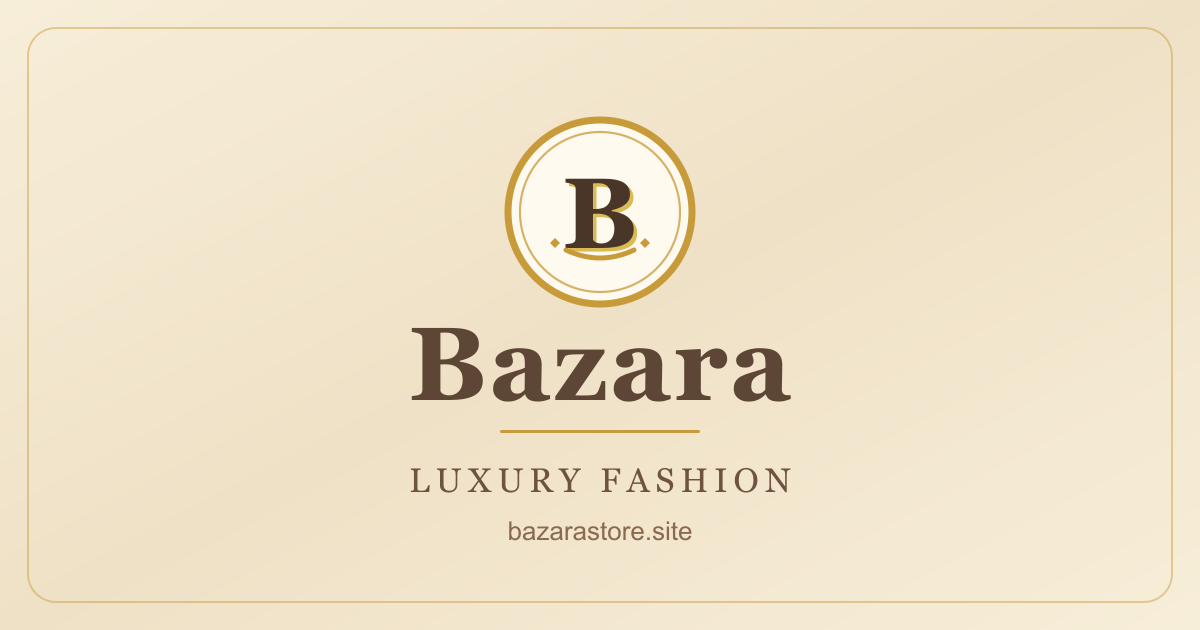
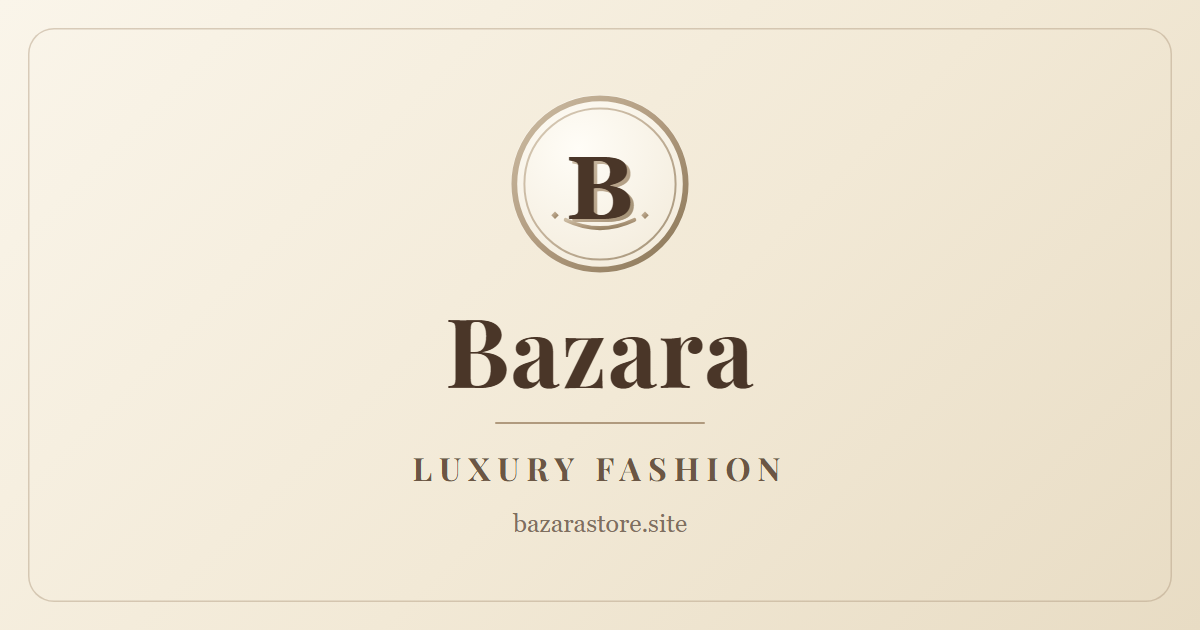
آخر الذهب: السحّابات والأيقونات وصورة المشاركة
المسح الأوّل أزال الذهب بقائمةٍ محفوظةٍ من الأكواد، فنجا كلّ ما كُتب بـrgba()
بقيمٍ خارجها. هذه المرّة بلا قائمة: كشفتُ اللون ذهبيّاً حسابياً، واستبدلتُه
بالدرجة الرمليّة صاحبة الإضاءة نفسها — فالتباين كما هو، وتختفي الصفرة وحدها.
٤٩ موضعاً بتسعة ملفات، أبرزها:

· سحّاب الصفحة كلّها — بالوضع الليليّ وبلوحة التاجرة، وسحّاب الدرج الجانبي.
  ذهبٌ صريح rgb(224,194,95) على كلّ شاشة، ولا يراه فحصُ الألوان لأنّ
  ::-webkit-scrollbar لا يُقرأ بـgetComputedStyle.
· الشريط السفليّ والدرج الجانبيّ ومحادثة المنسّقة وعارض القصص والشريط المعلن.
· وظلّا shadow-glow وshadow-gold بالتهيئة: rgba(212,175,55) — أي ذهبٌ معدنيّ
  كامل، يظهر خارج theme-pub أي بلوحة التاجرة.

وأيقونات التطبيق: تغييرُ favicon.svg لا يمسّ الـPNG — وهي التي تُرى على شاشة
الهاتف وبتبويب المتصفّح. أعدتُ رسم الستّ من نفس الـSVG المحدَّث.

وog-cover.png: أوّل ما يراه من يصله رابط الموقع بواتساب — كانت حلقةُ الشعار
والخطُّ الفاصل ذهبَين معدنيَّين وحدهما وسط لوحةٍ صارت رمليّةً كلّها. أعدتُ
رسمها بالخطّ نفسه والتكوين نفسه. (جرّبتُ تقليل حجمها بتقريب الألوان فوفّر ٥٪
فقط — لا يستحقّ خطر التشريط على تدرّج، فأبقيتُ الرسم النظيف.)

ما بقي ذهبياً عن قصد: ألوانُ القطع التي تختارها التاجرة (colorDot)، ولوحةُ
ألوان بانرها، والكهرمانيّ الذي يعني «انتبهي» لا «فخامة».

diff --git a/client/src/index.css b/client/src/index.css
@@ -130,7 +130,7 @@ table { max-width: 100%; }
 /* اسم المتجر الذهبي على السلايدر — تدرّج ذهبي دائم (غير متأثّر بالثيم) فوق الحجاب
    الداكن، مع بريق خفيف يمرّ عليه لإحساس فخم. */
 .bz-gold-name {
-  background: linear-gradient(100deg, #f3dd9e 0%, #c6b499 30%, #f7e7b0 50%, #b09a7e 72%, #c6b499 100%);
+  background: linear-gradient(100deg, #e8ddcc 0%, #c6b499 30%, #eee6d8 50%, #b09a7e 72%, #c6b499 100%);
   -webkit-background-clip: text; background-clip: text; color: transparent;
   background-size: 220% auto; filter: drop-shadow(0 2px 6px rgba(0,0,0,0.45));
 }
@@ -151,8 +151,8 @@ table { max-width: 100%; }
 }
 /* زوايا ذهبية مضيئة (L-shape) بأركان الشريحة الثابتة */
 .bz-hero-corner {
-  border-color: rgba(240, 212, 136, 0.85);
-  filter: drop-shadow(0 0 6px rgba(224, 194, 95, 0.55));
+  border-color: rgba(225, 213, 193, 0.85);
+  filter: drop-shadow(0 0 6px rgba(209, 194, 170, 0.55));
 }
 @media (prefers-reduced-motion: no-preference) {
   /* تكبير سينمائي بطيء (Ken Burns) للوسيط على الشريحة الظاهرة فقط */
@@ -413,12 +413,12 @@ input[type='datetime-local']::-webkit-datetime-edit {
 ::-webkit-scrollbar { width: 9px; height: 9px; }
 ::-webkit-scrollbar-track { background: transparent; }
 ::-webkit-scrollbar-thumb {
-  background: rgba(224, 194, 95, 0.34);
+  background: rgba(209, 194, 170, 0.34);
   border: 2px solid transparent;
   background-clip: content-box;
   border-radius: 999px;
 }
-::-webkit-scrollbar-thumb:hover { background: rgba(236, 217, 155, 0.6); background-clip: content-box; }
+::-webkit-scrollbar-thumb:hover { background: rgba(228, 216, 197, 0.6); background-clip: content-box; }
 
 /* قص النص لعدة أسطر */
 .line-clamp-1 { display: -webkit-box; -webkit-line-clamp: 1; -webkit-box-orient: vertical; overflow: hidden; }
@@ -611,8 +611,8 @@ html.dark .bz-select-opt.is-active {
 /* شريط التمرير خمري داخل الثيم العام */
 .theme-pub ::-webkit-scrollbar-thumb { background: rgba(94, 70, 54, 0.32); background-clip: content-box; }
 .theme-pub ::-webkit-scrollbar-thumb:hover { background: rgba(94, 70, 54, 0.55); background-clip: content-box; }
-html.dark .theme-pub ::-webkit-scrollbar-thumb { background: rgba(224, 194, 95, 0.34); background-clip: content-box; }
-html.dark .theme-pub ::-webkit-scrollbar-thumb:hover { background: rgba(236, 217, 155, 0.6); background-clip: content-box; }
+html.dark .theme-pub ::-webkit-scrollbar-thumb { background: rgba(209, 194, 170, 0.34); background-clip: content-box; }
+html.dark .theme-pub ::-webkit-scrollbar-thumb:hover { background: rgba(228, 216, 197, 0.6); background-clip: content-box; }
 
 /* ===== الشريط العلوي الخمري (Navbar) ===== */
 .pub-navbar {
@@ -655,7 +655,7 @@ html.dark .theme-pub .app-navbar {
   box-shadow: 0 8px 22px -10px rgba(0, 0, 0, 0.8);
 }
 html.dark .theme-pub .app-navbar::after {
-  background: linear-gradient(90deg, transparent, rgba(240, 212, 136, 0.55), transparent);
+  background: linear-gradient(90deg, transparent, rgba(225, 213, 193, 0.55), transparent);
 }
 /* عناصر داخل الهيدر ليلاً: القاعدة العامة تجعل bg-white بلون #241b12 وهو لون
    الهيدر نفسه تقريباً، فيذوب حقل البحث وأزرار السلّة/المفضّلة فيه ولا يُرى
@@ -755,7 +755,7 @@ html.dark .bz-sheet .bz-sheet-ghost:hover { background: rgba(205, 189, 164, 0.1)
    ذهبيّ خالص بتوهّجٍ خفيف — يلفت النظر كما تفعل حلقة إنستغرام. */
 .bz-story-ring {
   background: conic-gradient(from 140deg,
-    #8a7657, #f7e7b0 18%, #b09a7e 38%, #fff6da 55%, #c6b499 72%, #8a7657 88%, #f3dd9e);
+    #8a7657, #eee6d8 18%, #b09a7e 38%, #fff6da 55%, #c6b499 72%, #8a7657 88%, #e8ddcc);
   box-shadow: 0 0 0 1px rgba(138, 118, 87, 0.25), 0 4px 14px -3px rgba(176, 154, 126, 0.65);
 }
 /* المُشاهَدة: خيطٌ رفيع هادئ بدل حلقةٍ سميكة باهتة */
@@ -777,7 +777,7 @@ html.dark .bz-story-gap { background: #1c1610; }
    نُبقي لوناً صلباً fallback أولاً كي لا يختفي النص لو لم يُدعم background-clip. */
 .ann-text {
   color: #f3e6c2;
-  background: linear-gradient(100deg, #e9cf87 0%, #fff6da 22%, #b09a7e 45%, #fff2cf 66%, #cdbda4 100%);
+  background: linear-gradient(100deg, #dccfba 0%, #fff6da 22%, #b09a7e 45%, #fff2cf 66%, #cdbda4 100%);
   background-size: 220% auto;
   -webkit-background-clip: text; background-clip: text;
   -webkit-text-fill-color: transparent;
@@ -994,10 +994,10 @@ html.dark .theme-pub .text-gold-300,
 html.dark .theme-pub .text-gold-400 { color: #e4d8c5; }
 @media (hover: hover) {
   html.dark .theme-pub .hover\:text-gold-100:hover,
-  html.dark .theme-pub .hover\:text-gold-200:hover { color: #ffe9b8; }
+  html.dark .theme-pub .hover\:text-gold-200:hover { color: #f1eade; }
 }
 html.dark .theme-pub .gradient-text {
-  background: linear-gradient(135deg, #fdf3d3 0%, #ecd28a 40%, #b09a7e 100%);
+  background: linear-gradient(135deg, #fdf3d3 0%, #dfd2be 40%, #b09a7e 100%);
   -webkit-background-clip: text;
   background-clip: text;
   color: transparent;
@@ -1029,11 +1029,11 @@ html.dark .theme-pub .btn-ghost {
 @media (hover: hover) { html.dark .theme-pub .btn-ghost:hover { background: rgba(205, 189, 164, 0.12); border-color: #cdbda4; } }
 /* الزر الأساسي ليلياً: ذهبي مشعّ بنص داكن — أفخم وأوضح من البنّي المطفي */
 html.dark .theme-pub .btn-primary {
-  background: linear-gradient(135deg, #ecd28a 0%, #b09a7e 55%, #8a7657 100%);
+  background: linear-gradient(135deg, #dfd2be 0%, #b09a7e 55%, #8a7657 100%);
   color: #1e1710;
   box-shadow: 0 12px 28px -12px rgba(176, 154, 126, 0.45);
 }
-@media (hover: hover) { html.dark .theme-pub .btn-primary:hover { background: linear-gradient(135deg, #f4e0a4 0%, #cdbda4 55%, #b09a7e 100%); } }
+@media (hover: hover) { html.dark .theme-pub .btn-primary:hover { background: linear-gradient(135deg, #eae0cf 0%, #cdbda4 55%, #b09a7e 100%); } }
 
 /* الحدود البنّية → ذهبية خفيفة */
 html.dark .theme-pub .border-wine\/15,
@@ -1143,7 +1143,7 @@ html.dark .theme-pub .text-wine\/45 { color: rgba(236, 227, 214, 0.62); }
 html.dark .theme-pub .text-wine\/40 { color: rgba(236, 227, 214, 0.55); }
 html.dark .theme-pub .text-wine\/35 { color: rgba(236, 227, 214, 0.50); }
 html.dark .theme-pub .text-wine\/30 { color: rgba(236, 227, 214, 0.45); }
-@media (hover: hover) { html.dark .theme-pub .hover\:text-wine:hover { color: #f0d896; } }
+@media (hover: hover) { html.dark .theme-pub .hover\:text-wine:hover { color: #e4d8c5; } }
 
 /* رسائل التأكيد الخضراء الفاتحة كانت تختفي على الخلفية الكريمية الفاتحة →
    نجعلها خضراء واضحة في الوضع النهاري، وفاتحة في الوضع الليلي. */
@@ -1367,12 +1367,12 @@ a, button, [role='button'], summary {
 @media (pointer: fine) {
   .dash-menu-scroll {
     scrollbar-width: thin;
-    scrollbar-color: rgba(224, 194, 95, 0.6) transparent;
+    scrollbar-color: rgba(209, 194, 170, 0.6) transparent;
   }
   .dash-menu-scroll::-webkit-scrollbar { width: 7px; }
   .dash-menu-scroll::-webkit-scrollbar-track { background: rgba(244, 237, 226, 0.06); border-radius: 99px; }
   .dash-menu-scroll::-webkit-scrollbar-thumb {
-    background: linear-gradient(180deg, rgba(236, 217, 155, 0.75), rgba(176, 154, 126, 0.65));
+    background: linear-gradient(180deg, rgba(228, 216, 197, 0.75), rgba(176, 154, 126, 0.65));
     border-radius: 99px;
   }
   .dash-menu-scroll::-webkit-scrollbar-thumb:hover { background: linear-gradient(180deg, #e4d8c5, #b09a7e); }
@@ -1385,7 +1385,7 @@ a, button, [role='button'], summary {
 @media (pointer: fine) {
   /* فايرفوكس: اللون يُورَّث لكل حاويات التمرير */
   html { scrollbar-width: thin; scrollbar-color: rgba(94, 70, 54, 0.38) transparent; }
-  html.dark { scrollbar-color: rgba(224, 194, 95, 0.45) transparent; }
+  html.dark { scrollbar-color: rgba(209, 194, 170, 0.45) transparent; }
 }
 
 /* الأزرار لا يُحدَّد نصّها (لا معنى لتحديد كلمة «حفظ») — والروابط تبقى قابلة
@@ -1423,7 +1423,7 @@ img, svg { -webkit-user-drag: none; }
 /* وجود غير مقروء يستحقّ فرقاً يُرى بلمحة، لا رقماً صغيراً وحده */
 .bz-bell-on {
   background: linear-gradient(140deg, rgba(205, 189, 164, 0.32), rgba(205, 189, 164, 0.12));
-  color: #f6e6b6;
+  color: #eee5d7;
   box-shadow: inset 0 0 0 1px rgba(205, 189, 164, 0.60), 0 0 18px -6px rgba(205, 189, 164, 0.55);
 }
 
@@ -1506,7 +1506,7 @@ html.dark .bz-notif-head {
   background: linear-gradient(180deg, rgba(205, 189, 164, 0.09), transparent);
 }
 .bz-notif-headico {
-  background: linear-gradient(140deg, #cdbda4, #c9a94f);
+  background: linear-gradient(140deg, #cdbda4, #bca88e);
   color: #3a2a1c;
   box-shadow: 0 4px 12px -4px rgba(150, 128, 95, 0.7);
 }
@@ -1564,7 +1564,7 @@ html.dark .bz-seg-btn { color: rgba(203, 187, 156, 0.72); }
 }
 html.dark .bz-seg-on {
   background: rgba(205, 189, 164, 0.20);
-  color: #f6e6b6;
+  color: #eee5d7;
   box-shadow: inset 0 0 0 1px rgba(205, 189, 164, 0.30);
 }
 .bz-seg-count {
@@ -1618,7 +1618,7 @@ html.dark .bz-notif-unread { background: rgba(205, 189, 164, 0.07); }
   inset-block: 0;
   inset-inline-start: 0;
   width: 3px;
-  background: linear-gradient(180deg, #cdbda4, #c9a94f);
+  background: linear-gradient(180deg, #cdbda4, #bca88e);
 }
 /* ليلاً الذهب الصريح يصرخ على الخلفية الداكنة — نخفّه قليلاً */
 html.dark .bz-notif-unread::before { background: linear-gradient(180deg, rgba(205, 189, 164, 0.75), rgba(150, 128, 95, 0.55)); }
@@ -1640,7 +1640,7 @@ html.dark .bz-notif-ico { box-shadow: inset 0 0 0 1px rgba(255, 255, 255, 0.07);
 .bz-tone-pink   { background: rgba(219, 39, 119, 0.12);  color: #be185d; }
 .bz-tone-violet { background: rgba(124, 58, 237, 0.12);  color: #6d28d9; }
 
-html.dark .bz-tone-gold   { background: rgba(205, 189, 164, 0.16); color: #ecd08a; }
+html.dark .bz-tone-gold   { background: rgba(205, 189, 164, 0.16); color: #ded1bc; }
 html.dark .bz-tone-amber  { background: rgba(251, 191, 36, 0.14);  color: #fcd34d; }
 html.dark .bz-tone-red    { background: rgba(248, 113, 113, 0.14); color: #fca5a5; }
 html.dark .bz-tone-teal   { background: rgba(45, 212, 191, 0.14);  color: #5eead4; }

diff --git a/client/src/pages/dashboard/StoreSettings.jsx b/client/src/pages/dashboard/StoreSettings.jsx
@@ -125,10 +125,10 @@ const waValid = (v) => {
 function AnnouncementPreview({ items }) {
   const list = items.length ? items : [''];
   return (
-    <div dir="ltr" className="group relative overflow-hidden rounded-xl border-y border-gold-400/60 bg-gradient-to-r from-[#1f130d] via-[#3f2a19] to-[#1f130d] py-2 shadow-[inset_0_1px_0_rgba(224,194,95,.22),inset_0_-1px_0_rgba(0,0,0,.4)]">
-      <span className="pointer-events-none absolute inset-x-0 top-0 z-10 h-px bg-gradient-to-r from-transparent via-[#f0d488]/70 to-transparent" />
-      <span className="pointer-events-none absolute inset-x-0 bottom-0 z-10 h-px bg-gradient-to-r from-transparent via-[#f0d488]/45 to-transparent" />
-      <span className="pointer-events-none absolute inset-0 z-0 bg-[radial-gradient(80%_140%_at_50%_50%,rgba(224,194,95,.14),transparent_70%)]" />
+    <div dir="ltr" className="group relative overflow-hidden rounded-xl border-y border-gold-400/60 bg-gradient-to-r from-[#1f130d] via-[#3f2a19] to-[#1f130d] py-2 shadow-[inset_0_1px_0_rgba(209, 194, 170,.22),inset_0_-1px_0_rgba(0,0,0,.4)]">
+      <span className="pointer-events-none absolute inset-x-0 top-0 z-10 h-px bg-gradient-to-r from-transparent via-[#e1d5c1]/70 to-transparent" />
+      <span className="pointer-events-none absolute inset-x-0 bottom-0 z-10 h-px bg-gradient-to-r from-transparent via-[#e1d5c1]/45 to-transparent" />
+      <span className="pointer-events-none absolute inset-0 z-0 bg-[radial-gradient(80%_140%_at_50%_50%,rgba(209, 194, 170,.14),transparent_70%)]" />
       <span className="animate-ann-shine pointer-events-none absolute inset-y-0 z-20 w-1/3 bg-[linear-gradient(105deg,transparent,rgba(255,244,210,.34)_50%,transparent)]" />
       {/* أبطأ من الشريط الحقيقي عمداً: المعاينة صغيرة والتاجرة تقرأ نصّها للتدقيق */}
       <div className="relative z-[5] flex w-max animate-marquee" style={{ animationDuration: `${Math.min(160, Math.max(34, list.join('  ').length * 0.95))}s` }}>
@@ -136,7 +136,7 @@ function AnnouncementPreview({ items }) {
           <div key={g} className="flex shrink-0 items-center" aria-hidden={g === 1}>
             {Array.from({ length: Math.max(6, list.length * 3) }).map((_, k) => (
               <span key={k} className="ann-text flex items-center gap-2 whitespace-nowrap px-5 text-[12px] font-extrabold" dir="auto">
-                <svg viewBox="0 0 24 24" className="h-3 w-3 shrink-0 text-[#f4dc93] drop-shadow-[0_0_5px_rgba(224,194,95,.75)]" style={{ WebkitTextFillColor: 'initial' }} fill="currentColor">
+                <svg viewBox="0 0 24 24" className="h-3 w-3 shrink-0 text-[#e7dcca] drop-shadow-[0_0_5px_rgba(209, 194, 170,.75)]" style={{ WebkitTextFillColor: 'initial' }} fill="currentColor">
                   <path d="M12 2c.5 3.8 2.2 5.5 6 6-3.8.5-5.5 2.2-6 6-.5-3.8-2.2-5.5-6-6 3.8-.5 5.5-2.2 6-6Z" />
                 </svg>
                 {list[k % list.length]}

diff --git a/client/src/components/AnnouncementBar.jsx b/client/src/components/AnnouncementBar.jsx
@@ -23,7 +23,7 @@ export default function AnnouncementBar({ ar, en }) {
     <div className="flex shrink-0 items-center" aria-hidden={hidden}>
       {Array.from({ length: groupCount }).map((_, k) => (
         <span key={k} className="ann-text flex items-center gap-2.5 whitespace-nowrap px-6 text-[13px] font-extrabold tracking-wide" dir="auto">
-          <SparkleIcon className="h-3.5 w-3.5 shrink-0 text-[#f4dc93] drop-shadow-[0_0_5px_rgba(224,194,95,.75)]" />
+          <SparkleIcon className="h-3.5 w-3.5 shrink-0 text-[#e7dcca] drop-shadow-[0_0_5px_rgba(209, 194, 170,.75)]" />
           {items[k % items.length]}
         </span>
       ))}
@@ -31,12 +31,12 @@ export default function AnnouncementBar({ ar, en }) {
   );
 
   return (
-    <div dir="ltr" className="group relative -mx-4 mb-5 overflow-hidden border-y border-gold-400/60 bg-gradient-to-r from-[#1f130d] via-[#3f2a19] to-[#1f130d] py-2 shadow-[0_3px_14px_rgba(0,0,0,.4),inset_0_1px_0_rgba(224,194,95,.22),inset_0_-1px_0_rgba(0,0,0,.4)] sm:-mx-6">
+    <div dir="ltr" className="group relative -mx-4 mb-5 overflow-hidden border-y border-gold-400/60 bg-gradient-to-r from-[#1f130d] via-[#3f2a19] to-[#1f130d] py-2 shadow-[0_3px_14px_rgba(0,0,0,.4),inset_0_1px_0_rgba(209, 194, 170,.22),inset_0_-1px_0_rgba(0,0,0,.4)] sm:-mx-6">
       {/* خطّ ذهبي رفيع علوي وسفلي — يعطي حدّاً مزدوجاً فاخراً */}
-      <span className="pointer-events-none absolute inset-x-0 top-0 z-10 h-px bg-gradient-to-r from-transparent via-[#f0d488]/70 to-transparent" />
-      <span className="pointer-events-none absolute inset-x-0 bottom-0 z-10 h-px bg-gradient-to-r from-transparent via-[#f0d488]/45 to-transparent" />
+      <span className="pointer-events-none absolute inset-x-0 top-0 z-10 h-px bg-gradient-to-r from-transparent via-[#e1d5c1]/70 to-transparent" />
+      <span className="pointer-events-none absolute inset-x-0 bottom-0 z-10 h-px bg-gradient-to-r from-transparent via-[#e1d5c1]/45 to-transparent" />
       {/* توهّج دافئ خفيف بمنتصف الشريط خلف النص */}
-      <span className="pointer-events-none absolute inset-0 z-0 bg-[radial-gradient(80%_140%_at_50%_50%,rgba(224,194,95,.14),transparent_70%)]" />
+      <span className="pointer-events-none absolute inset-0 z-0 bg-[radial-gradient(80%_140%_at_50%_50%,rgba(209, 194, 170,.14),transparent_70%)]" />
       {/* لمعة ذهبية تمسح الشريط تلقائياً — تعطيه إحساس المعدن الفاخر */}
       <span className="animate-ann-shine pointer-events-none absolute inset-y-0 z-20 w-1/3 bg-[linear-gradient(105deg,transparent,rgba(255,244,210,.34)_50%,transparent)]" />
       <div

diff --git a/client/src/pages/Home.jsx b/client/src/pages/Home.jsx
@@ -542,7 +542,7 @@ function HomeHero({ banners = [] }) {
                       </>
                     )}
                     {/* شارة ذهبية رفيعة تعطي إحساس دور الأزياء العالمية */}
-                    <span className={`bz-hero-el bz-kicker mb-4 text-[11px] font-semibold uppercase sm:text-xs ${onMedia ? 'text-gold-200/90' : 'text-[#a9812f]'}`}>Bazara</span>
+                    <span className={`bz-hero-el bz-kicker mb-4 text-[11px] font-semibold uppercase sm:text-xs ${onMedia ? 'text-gold-200/90' : 'text-[#9a8463]'}`}>Bazara</span>
                     {s.title && <h1 className={`bz-hero-el font-display text-3xl font-extrabold leading-tight sm:text-5xl ${onMedia ? 'text-cream drop-shadow-lg' : 'text-[#5e4636]'}`}>{s.title}</h1>}
                     {s.subtitle && <p className={`bz-hero-el mx-auto mt-4 max-w-2xl sm:text-lg ${onMedia ? 'text-cream/85 drop-shadow' : 'text-[#6e5340]'}`}>{s.subtitle}</p>}
                     {s.btnLabel && s.btnHref && <div className="bz-hero-el"><SlideButton href={s.btnHref} label={s.btnLabel} onLight={!onMedia} /></div>}
@@ -555,7 +555,7 @@ function HomeHero({ banners = [] }) {
               <div key={idx} className="w-full shrink-0" dir="rtl">
                 <div className={`relative flex h-[340px] flex-col items-center justify-center overflow-hidden bg-gradient-to-br from-[#f6ecd9] via-[#efe1c6] to-[#f6ecd9] px-6 text-center sm:h-[420px] lg:h-[500px] 2xl:h-[580px] ${idx === i ? 'bz-hero-active' : ''}`}>
                   <div className="pointer-events-none absolute -top-12 start-1/4 h-44 w-44 animate-float rounded-full bg-wine/5 blur-3xl" />
-                  <p className="bz-hero-el bz-kicker mb-4 text-[11px] font-semibold uppercase text-[#a9812f] sm:text-xs">{s.eyebrow}</p>
+                  <p className="bz-hero-el bz-kicker mb-4 text-[11px] font-semibold uppercase text-[#9a8463] sm:text-xs">{s.eyebrow}</p>
                   <h1 className="bz-hero-el font-display text-3xl font-extrabold leading-tight text-[#5e4636] sm:text-5xl">
                     {s.title}
                     {s.highlight && <> <span className="underline decoration-[#9c866a] decoration-2 underline-offset-8">{s.highlight}</span></>}

diff --git a/client/src/components/StoryViewer.jsx b/client/src/components/StoryViewer.jsx
@@ -176,7 +176,7 @@ export default function StoryViewer({ stories, store, startIndex = 0, isOwner = 
           {stories.map((s, i) => (
             <div key={s.id} className="h-[3px] flex-1 overflow-hidden rounded-full bg-white/30 shadow-[0_1px_2px_rgba(0,0,0,.35)]">
               <div
-                className="h-full rounded-full bg-gradient-to-r from-[#b09a7e] via-[#f7e7b0] to-[#fff6da] shadow-[0_0_6px_rgba(205, 189, 164, .8)]"
+                className="h-full rounded-full bg-gradient-to-r from-[#b09a7e] via-[#eee6d8] to-[#fff6da] shadow-[0_0_6px_rgba(205, 189, 164, .8)]"
                 style={{ width: `${i < idx ? 100 : i === idx ? progress : 0}%` }}
               />
             </div>
@@ -227,7 +227,7 @@ export default function StoryViewer({ stories, store, startIndex = 0, isOwner = 
           )}
           {cur.productId && (
             <Link to={`/product/${cur.productId}`} onClick={onClose}
-              className="flex w-full items-center justify-center gap-2 rounded-full bg-gradient-to-r from-[#f7e7b0] via-[#cdbda4] to-[#b09a7e] py-3 text-sm font-extrabold text-[#2a1c14] shadow-[0_8px_24px_-6px_rgba(176, 154, 126, .8)] transition active:scale-[0.98]">
+              className="flex w-full items-center justify-center gap-2 rounded-full bg-gradient-to-r from-[#eee6d8] via-[#cdbda4] to-[#b09a7e] py-3 text-sm font-extrabold text-[#2a1c14] shadow-[0_8px_24px_-6px_rgba(176, 154, 126, .8)] transition active:scale-[0.98]">
               <BagIcon className="h-5 w-5" /> {t('story.shopNow')}
             </Link>
           )}

diff --git a/client/src/components/BottomNav.jsx b/client/src/components/BottomNav.jsx
@@ -237,7 +237,7 @@ export default function BottomNav() {
                 // شارة فاخرة: هالة نابضة خلفها لجذب الانتباه + حبّة ذهبية متدرّجة بحدّ عاجي
                 <span className="absolute -end-1 -top-1.5 flex h-[18px] min-w-[18px] items-center justify-center">
                   <span className="absolute inline-flex h-full w-full animate-ping rounded-full bg-gold-400/60" style={{ animationDuration: '1.8s' }} />
-                  <span className="relative flex h-[18px] min-w-[18px] items-center justify-center rounded-full px-1 text-[10px] font-extrabold leading-none text-wine-dark shadow-md ring-[1.5px] ring-cream" style={{ background: 'linear-gradient(135deg, #f4e0a4 0%, #cdbda4 55%, #b09a7e 100%)' }}>
+                  <span className="relative flex h-[18px] min-w-[18px] items-center justify-center rounded-full px-1 text-[10px] font-extrabold leading-none text-wine-dark shadow-md ring-[1.5px] ring-cream" style={{ background: 'linear-gradient(135deg, #eae0cf 0%, #cdbda4 55%, #b09a7e 100%)' }}>
                     {badge > 99 ? '99+' : badge}
                   </span>
                 </span>

diff --git a/client/src/components/StylistChat.jsx b/client/src/components/StylistChat.jsx
@@ -136,10 +136,10 @@ export default function StylistChat({ store, whatsapp = '', marketplace = false 
         className="group fixed start-5 z-40 flex h-14 w-14 items-center justify-center rounded-full ring-1 ring-white/30 transition-transform duration-300 hover:scale-110 active:scale-95"
         style={{
           bottom: 'calc(env(safe-area-inset-bottom, 0px) + 96px)',
-          background: dark ? 'linear-gradient(150deg,#d4bd80,#a8863f)' : 'linear-gradient(150deg,#f9ecc4,#e3b94f)',
+          background: dark ? 'linear-gradient(150deg,#cdbda4,#9d8767)' : 'linear-gradient(150deg,#f9ecc4,#ccbca3)',
           boxShadow: dark
-            ? '0 10px 24px -10px rgba(168,134,63,0.55), 0 2px 6px -2px rgba(0,0,0,0.3)'
-            : '0 12px 28px -10px rgba(201,162,77,0.6), 0 2px 6px -2px rgba(0,0,0,0.15)',
+            ? '0 10px 24px -10px rgba(157, 135, 103,0.55), 0 2px 6px -2px rgba(0,0,0,0.3)'
+            : '0 12px 28px -10px rgba(184, 164, 136,0.6), 0 2px 6px -2px rgba(0,0,0,0.15)',
           color: '#3f2e22',
         }}
       >

diff --git a/client/src/components/DashDrawerNav.jsx b/client/src/components/DashDrawerNav.jsx
@@ -123,7 +123,7 @@ export default function DashDrawerNav({ groups, activeKey, onNavigate, badges = 
                         className={`relative flex h-6 min-w-6 items-center justify-center rounded-full px-1.5 text-xs font-extrabold shadow-sm ring-1 ring-cream/50 ${
                           s.badgeTone === 'green' ? 'bg-emerald-500 text-white' : 'text-wine-dark'
                         }`}
-                        style={s.badgeTone === 'green' ? undefined : { background: 'linear-gradient(135deg, #f4e0a4 0%, #cdbda4 55%, #b09a7e 100%)' }}
+                        style={s.badgeTone === 'green' ? undefined : { background: 'linear-gradient(135deg, #eae0cf 0%, #cdbda4 55%, #b09a7e 100%)' }}
                       >
                         {badge > 99 ? '99+' : badge}
                       </span>

diff --git a/client/src/pages/dashboard/OrdersManager.jsx b/client/src/pages/dashboard/OrdersManager.jsx
@@ -268,7 +268,7 @@ export default function OrdersManager() {
     body{font-family:'Cairo','Segoe UI',Tahoma,sans-serif;color:#2b2b2b;margin:0;padding:0;background:#fff}
     .inv{padding:22px 24px;max-width:800px;margin:0 auto}
     .inv + .inv{page-break-before:always}
-    h1{font-size:19px;margin:0 0 4px;color:#8a6a2f}
+    h1{font-size:19px;margin:0 0 4px;color:#7f6c4d}
     .muted{color:#6b6b6b;font-size:11.5px;line-height:1.7}
     /* خيط ذهبي متدرّج أسفل الترويسة بدل خطّ مصمت — هوية بازارا الذهبية */
     .head{display:flex;justify-content:space-between;align-items:flex-start;gap:16px;padding-bottom:12px;margin-bottom:14px;border-bottom:3px solid;border-image:linear-gradient(90deg,#cdbda4,#b09a7e,#8a7657) 1}
